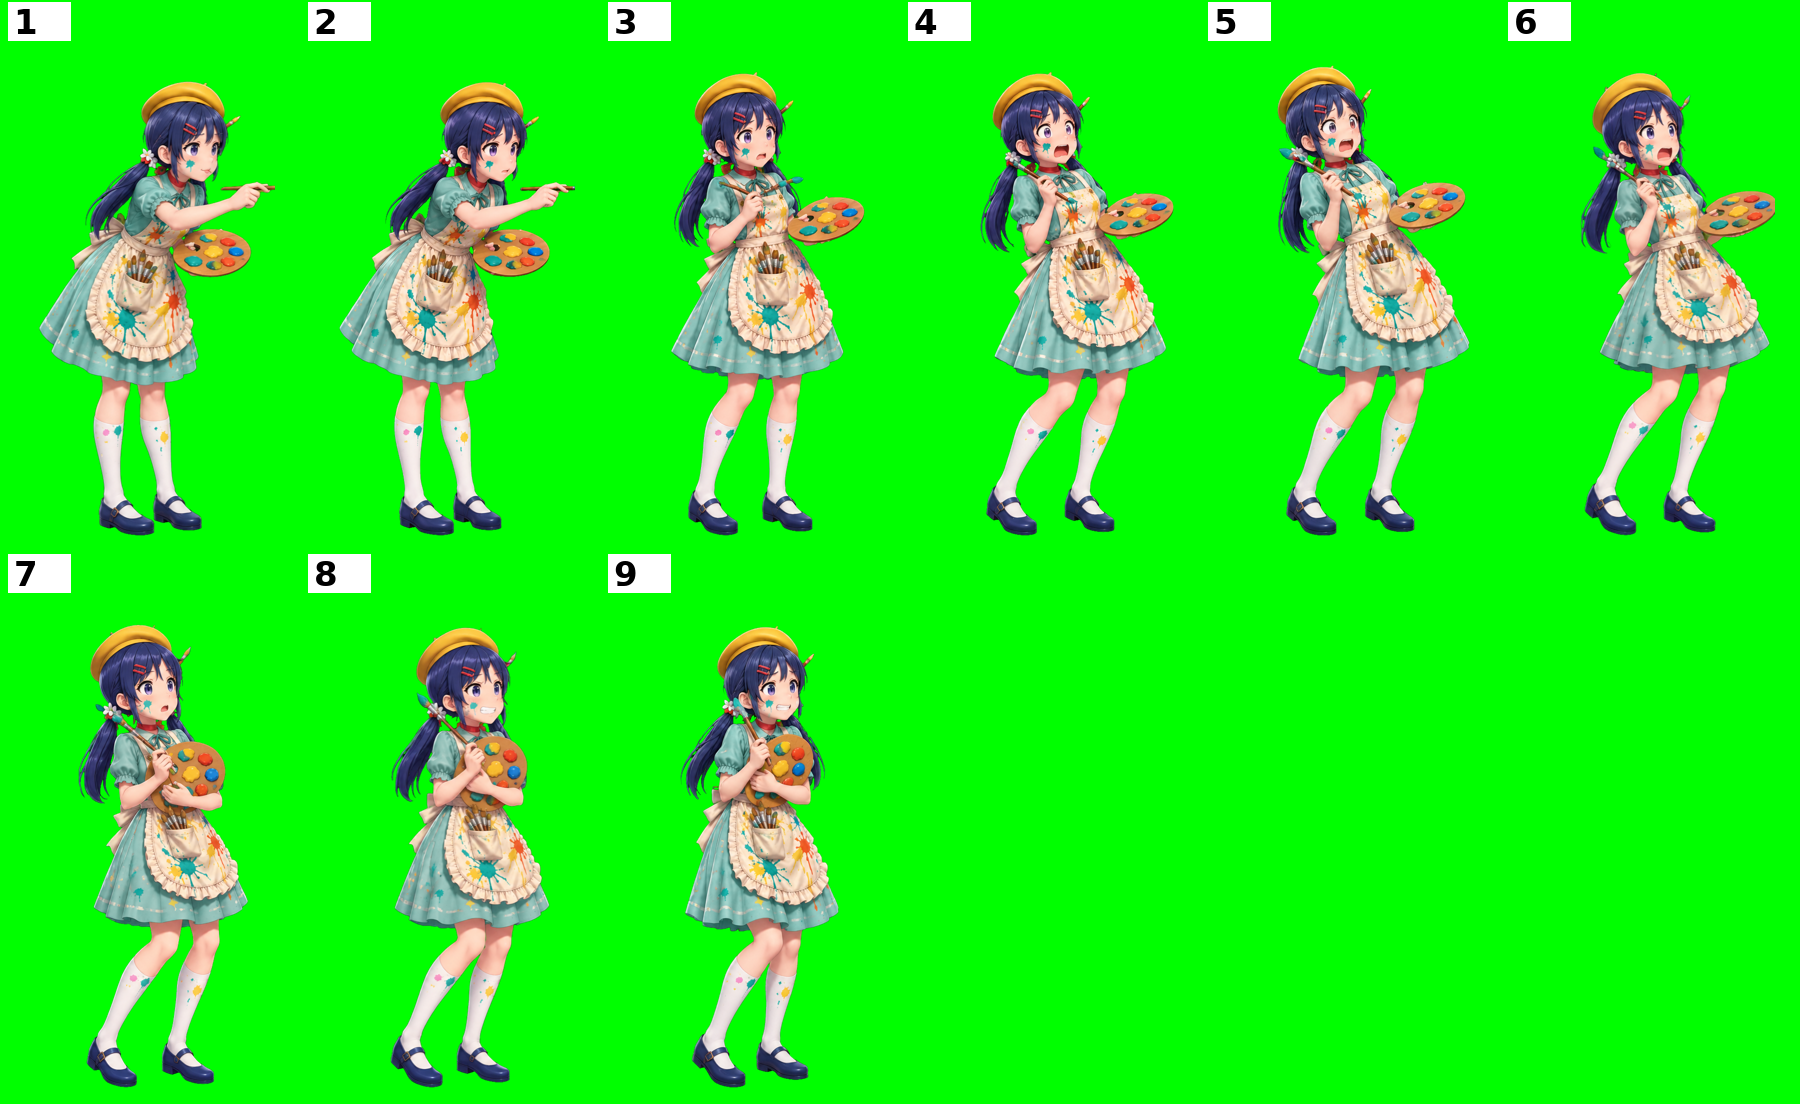
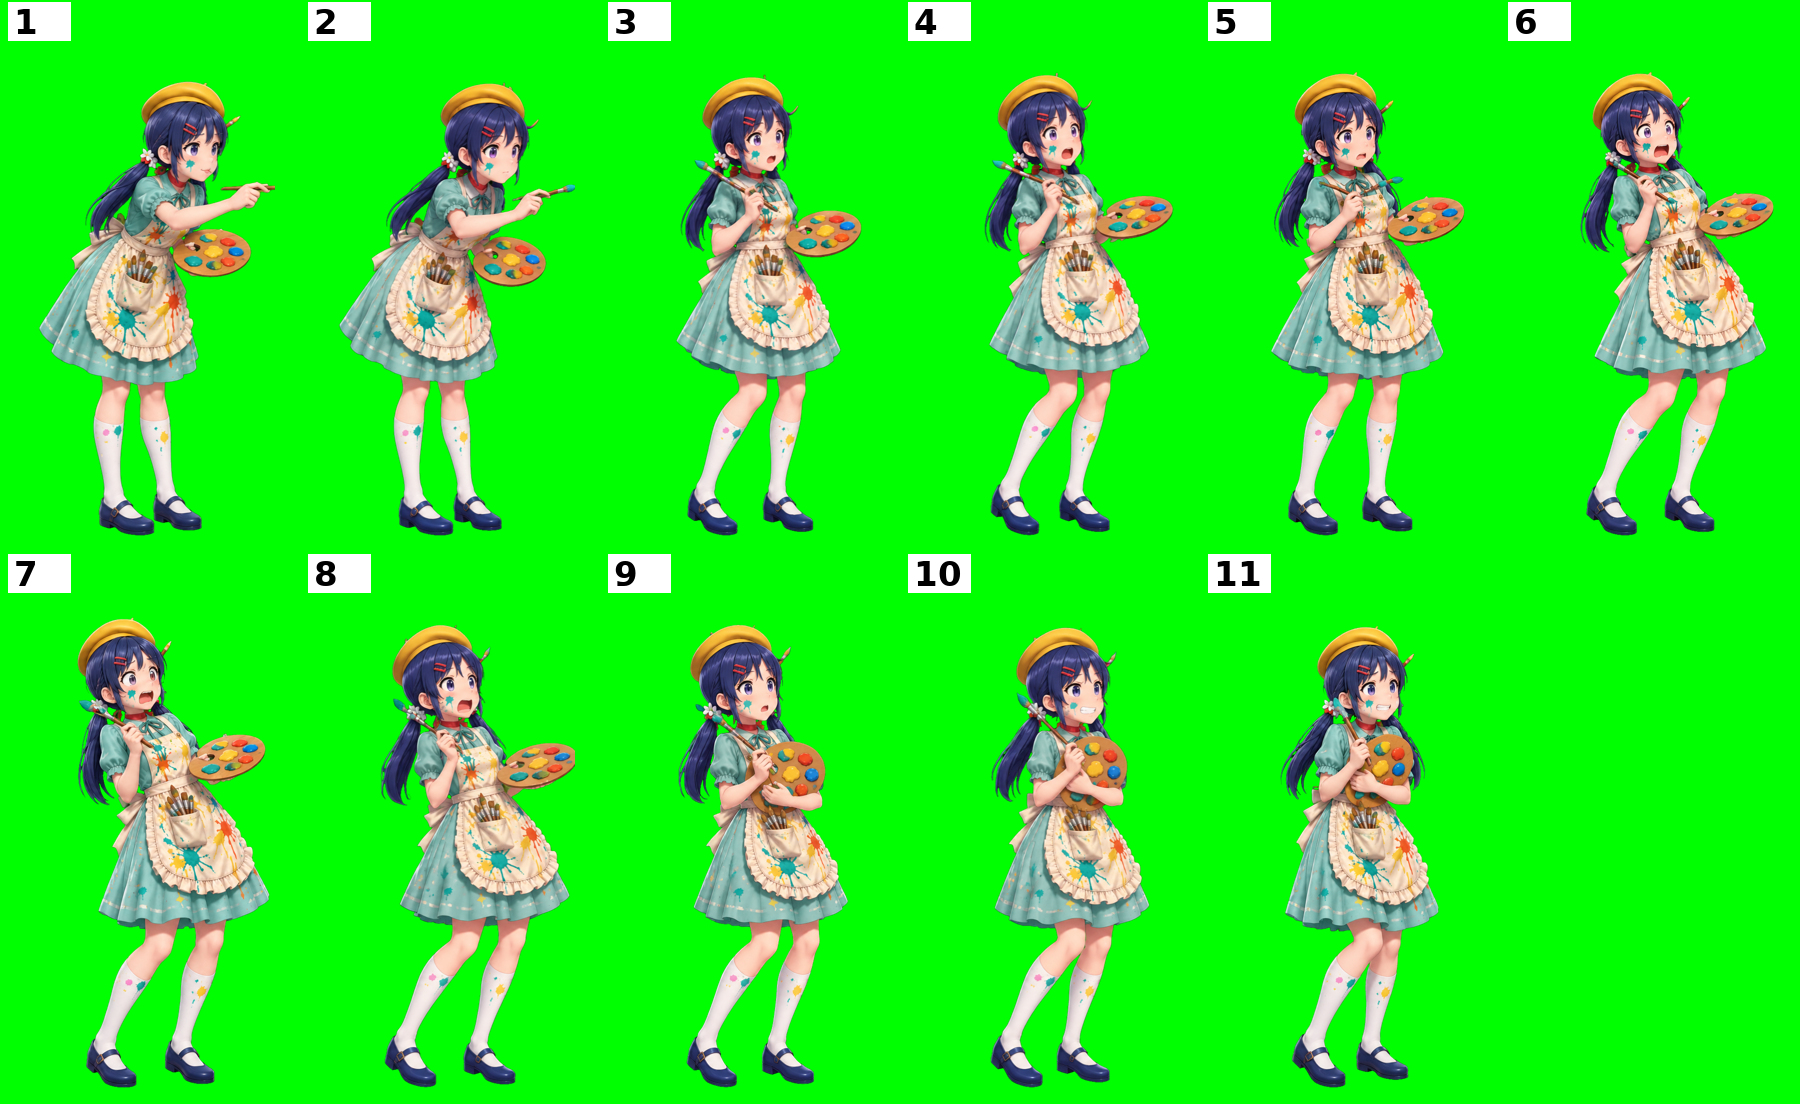
52-mita-artist: тычок — лист 4 (2a–2c); главный рывок 2a→2b остался
Claude-Session: https://claude.ai/code/session_012PNwYZXdw6QfqQCMnTcc5j

diff --git a/projects/52-mita-artist/tools/make_frames.py b/projects/52-mita-artist/tools/make_frames.py
@@ -9,7 +9,7 @@ from PIL import Image
 
 M = Path(__file__).resolve().parents[1] / 'input' / 'mita'
 SHEETS = {
-    'poke_k': 'poke_1 poke_5 poke_9', 'poke_i1': 'poke_2 poke_3 poke_4', 'poke_i2': 'poke_6 poke_7 poke_8',
+    'poke_k': 'poke_1 poke_5 poke_9', 'poke_i1': 'poke_2 poke_3 poke_4', 'poke_i2': 'poke_6 poke_7 poke_8', 'poke_i3': 'poke_2a poke_2b poke_2c',
 }
 THIRDS = set()            # бюсты касаются друг друга — режем строго по третям
 CW = 768
